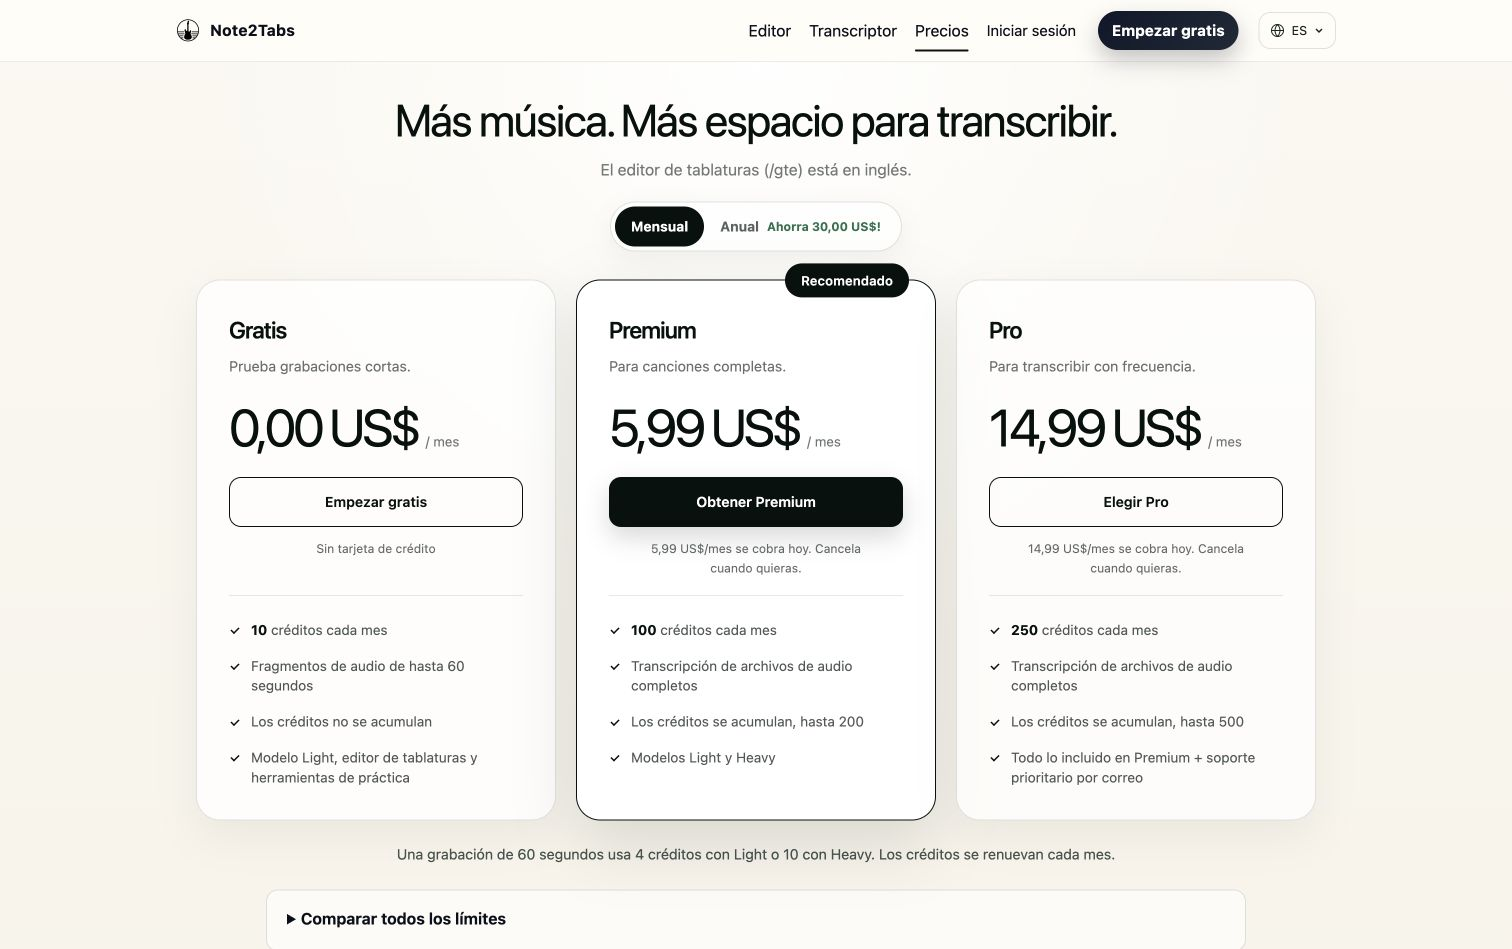
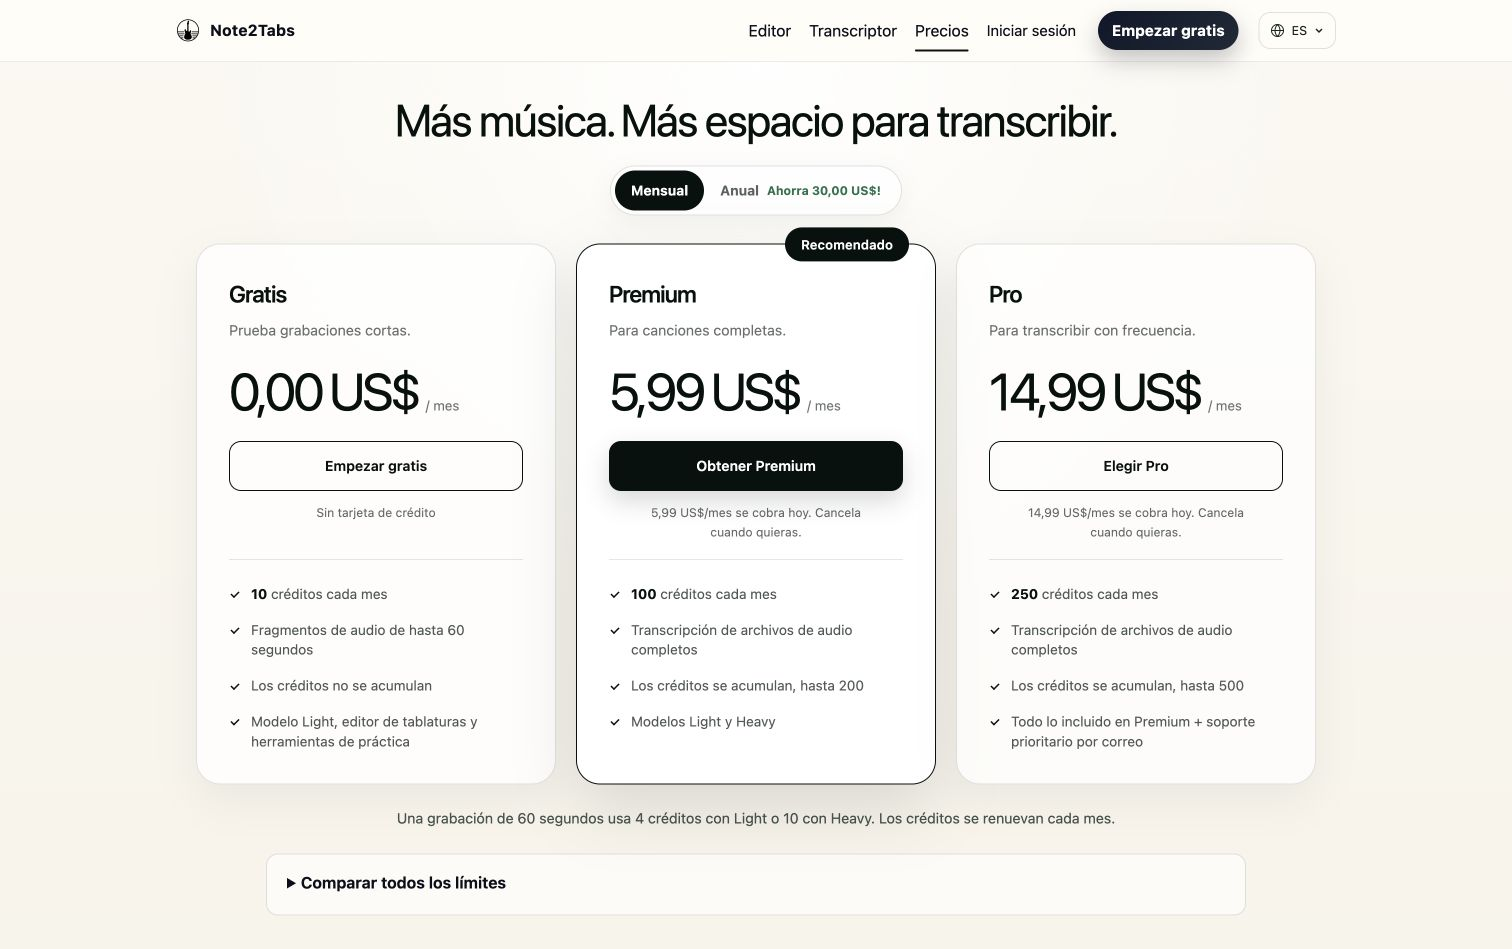
Restore compact controls and shorten localized action labels

diff --git a/styles/globals.css b/styles/globals.css
@@ -14276,23 +14276,17 @@ input[type="number"] {
 .pricing-plan__cta, .premium-welcome-primary, .premium-welcome-secondary {
   max-width: 100%;
   min-width: 0;
-  white-space: normal;
-  overflow-wrap: anywhere;
   text-align: center;
 }
 .button-primary > img, .button-secondary > img,
 .button-primary > svg, .button-secondary > svg { flex-shrink: 0; }
-.button-row { align-items: stretch; }
 
 .auth-card { min-width: 0; overflow-wrap: anywhere; }
-.auth-links-row { display: grid; grid-template-columns: repeat(2, minmax(0, 1fr)); align-items: stretch; }
-.auth-links-row > :only-child { grid-column: 1 / -1; }
-.auth-links-row > .button-link { align-self: center; text-align: center; }
 .auth-card-header h1 { text-wrap: balance; }
 
 .funnel-toolbar { flex-wrap: wrap; align-items: flex-start; }
-.mode-switch { max-width: 100%; align-items: stretch; }
-.mode-switch button { flex: 1 1 0; min-width: 0; text-align: center; }
+.mode-switch { max-width: 100%; }
+.mode-switch button { white-space: nowrap; }
 .transcription-auth-cta--toolbar p { position: static; white-space: normal; text-align: right; }
 .transcription-auth-cta--toolbar:has(p) { margin-bottom: 0; }
 .funnel-file-label, .hero-credits-inline { white-space: normal; overflow-wrap: anywhere; }
@@ -14307,7 +14301,7 @@ input[type="number"] {
 .pricing-plan__price { flex-wrap: wrap; min-width: 0; }
 .pricing-plan__price strong { max-width: 100%; white-space: nowrap; }
 .pricing-billing-toggle { max-width: 100%; }
-.pricing-billing-toggle button { min-width: 0; padding: 8px 16px; }
+.pricing-billing-toggle button { min-width: 0; }
 .pricing-page--focused .pricing-billing-toggle__saving { white-space: normal; }
 .pricing-plan__badge { max-width: calc(100% - 40px); text-align: center; }
 .pricing-page--focused .pricing-plan__top > .pricing-plan__saving:empty { margin: 0; }
@@ -14372,7 +14366,6 @@ input[type="number"] {
   .menu-toggle { display: inline-flex; align-items: center; gap: 8px; }
 }
 @media (max-width: 860px) {
-  .mode-switch--hero { width: 100%; align-self: stretch; }
   .transcription-auth-cta--toolbar p { text-align: center; }
 }
 @media (max-width: 1000px) {
@@ -14394,7 +14387,6 @@ input[type="number"] {
   .pricing-page--focused .pricing-plan__reassurance, .home-pricing__plans .pricing-plan__reassurance { min-height: 0; }
 }
 @media (max-width: 520px) {
-  .auth-links-row { grid-template-columns: minmax(0, 1fr); }
   .pricing-billing-toggle button:last-child { display: flex; flex-direction: column; justify-content: center; gap: 2px; }
   .pricing-billing-toggle button span { margin-left: 0; }
   .pricing-plan__price strong, .pricing-page--focused .pricing-plan__price strong { font-size: clamp(2rem, 10vw, 3rem); }
@@ -14407,7 +14399,6 @@ input[type="number"] {
 }
 
 /* Translated copy participates in shared rows, so longer labels stay aligned. */
-.editor-v2-actions, .editor-v2-paths, .feature-story-hero-actions { align-items: stretch; }
 .editor-v2-feature-grid article > div { min-width: 0; }
 .settingsRowMain, .settingsRowValue, .settingsNav button, .shared-page__person { min-width: 0; overflow-wrap: anywhere; }
 .settingsRowValue { flex-wrap: wrap; }

diff --git a/docs/localization/es-pilot.md b/docs/localization/es-pilot.md
@@ -8,7 +8,7 @@ Spanish mirrors the Portuguese website: homepage, transcriber, pricing, editor l
 
 The interactive `/gte` editor and library remain English. Their navigation returns to the selected website language. Names, email addresses, affiliate codes, user tab names, uploaded audio and opaque tokens are not translated. Verification, password-reset and completion emails support Spanish; existing marketing/subscription-lifecycle emails retain their earlier scope.
 
-The chooser closes on selection, outside click, Escape and navigation. Layouts are shared across the three languages and use natural content sizes rather than translation-specific heights. Currency selection, price IDs, charges, credits, rollover and limits use the existing catalog. Choosing Spanish does not force EUR or create a new Latin American price.
+The chooser closes on selection, outside click, Escape and navigation. Layouts are shared across the three languages. Short action labels preserve the original control dimensions; content rows use natural sizes for alignment. Currency selection, price IDs, charges, credits, rollover and limits use the existing catalog. Choosing Spanish does not force EUR or create a new Latin American price.
 
 Article translations record source title and revision. Updated/new sources fall back to English with a translated notice and noindex until a matching edition exists. Independent revision manifests prevent advertising stale Spanish or Portuguese alternatives. Public canonicals and reciprocal language alternates point to each matching page/article. Private routes remain excluded from indexing and session replay.
 
@@ -50,3 +50,7 @@ Development and preview expose drafts with noindex. Production release is indepe
 Browser QA: 31 templates across three languages at 320px, 820px and 1440px passed 279 checks with no document overflow or clipped action buttons. All 26 articles across the same three languages and widths passed another 234 checks: translated body language matched the page language, headings rendered, and no document overflow occurred (513 page/viewport checks in total). The Spanish editor → English `/gte` → Spanish home → Spanish transcriber journey passed. Switching through English, Portuguese and Spanish preserved the transcriber route and closed the chooser. Screenshots: `es-editor-desktop.jpg`, `es-pricing-desktop.jpg`, and `es-transcriber-mobile.jpg`.
 
 Build this symlinked worktree with `VERCEL_ENV=preview npm run build -- --webpack`. Current local preview: `http://localhost:3109/es`.
+
+## Compact-control correction
+
+Removed localization overrides that stretched the input switch, changed shared action-row layout, forced arbitrary word breaks, and added pricing-toggle padding. The input switch retains the original padding and 48px overall height at 320px, 820px and 1440px in all three languages, in both audio and YouTube modes. Shortened Portuguese/Spanish action labels instead of enlarging controls. Reviewed 31 public templates across those languages and widths (279 checks), then rechecked changed homepage/editor labels and all nine YouTube-mode combinations. No page overflow or clipped action buttons. The three focused localization suites pass (31 tests). Authenticated account actions retain their existing CSS dimensions and were inspected in source; no live account mutations were performed.
